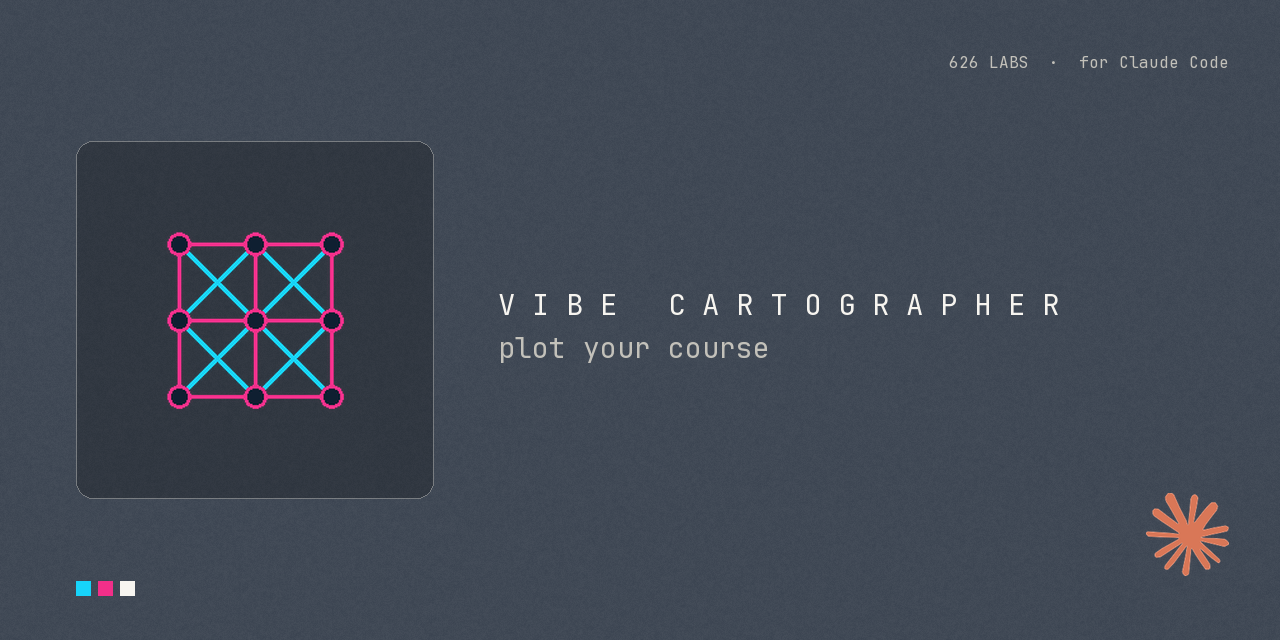
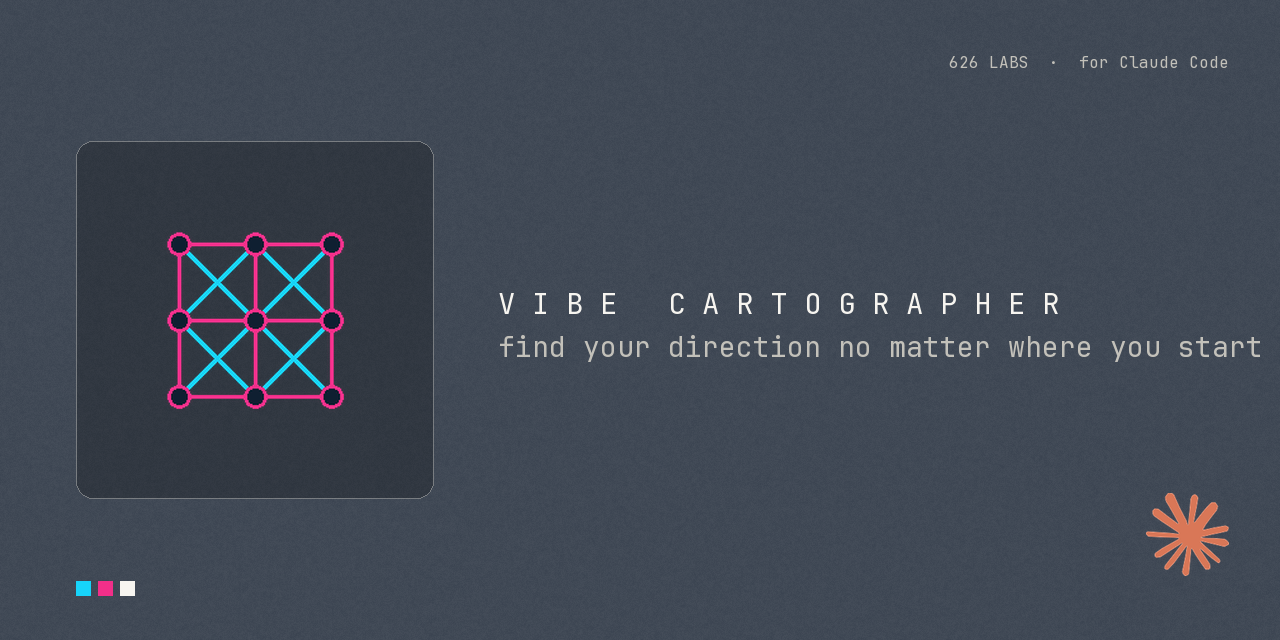
feat(plugins): vibe-cartographer tagline, find your direction no matter where you start
Cart v1.13.0 repositioned (idea to shipped app, or take over any list).
Updates the export-plugin-icons.py tagline so the monthly theme rebuild
keeps it, and re-renders Cart's banner (1500x500, 1280x640/og:image) and
square with the active theme.

Changed region(s): [[0.375, 0.5312, 1.0, 0.5625], [0.6875, 0.4688, 0.7188, 0.5], [0.5312, 0.4688, 0.5625, 0.5]]

diff --git a/scripts/export-plugin-icons.py b/scripts/export-plugin-icons.py
@@ -667,7 +667,7 @@ GLYPHS = {
 PLUGINS = [
     {
         "id": "vibe-cartographer", "name": "VIBE CARTOGRAPHER",
-        "tagline": "plot your course",
+        "tagline": "find your direction no matter where you start",
         "glyph": "node_graph", "primary": MAGENTA, "secondary": CYAN,  # flagship gets the duo
     },
     {
